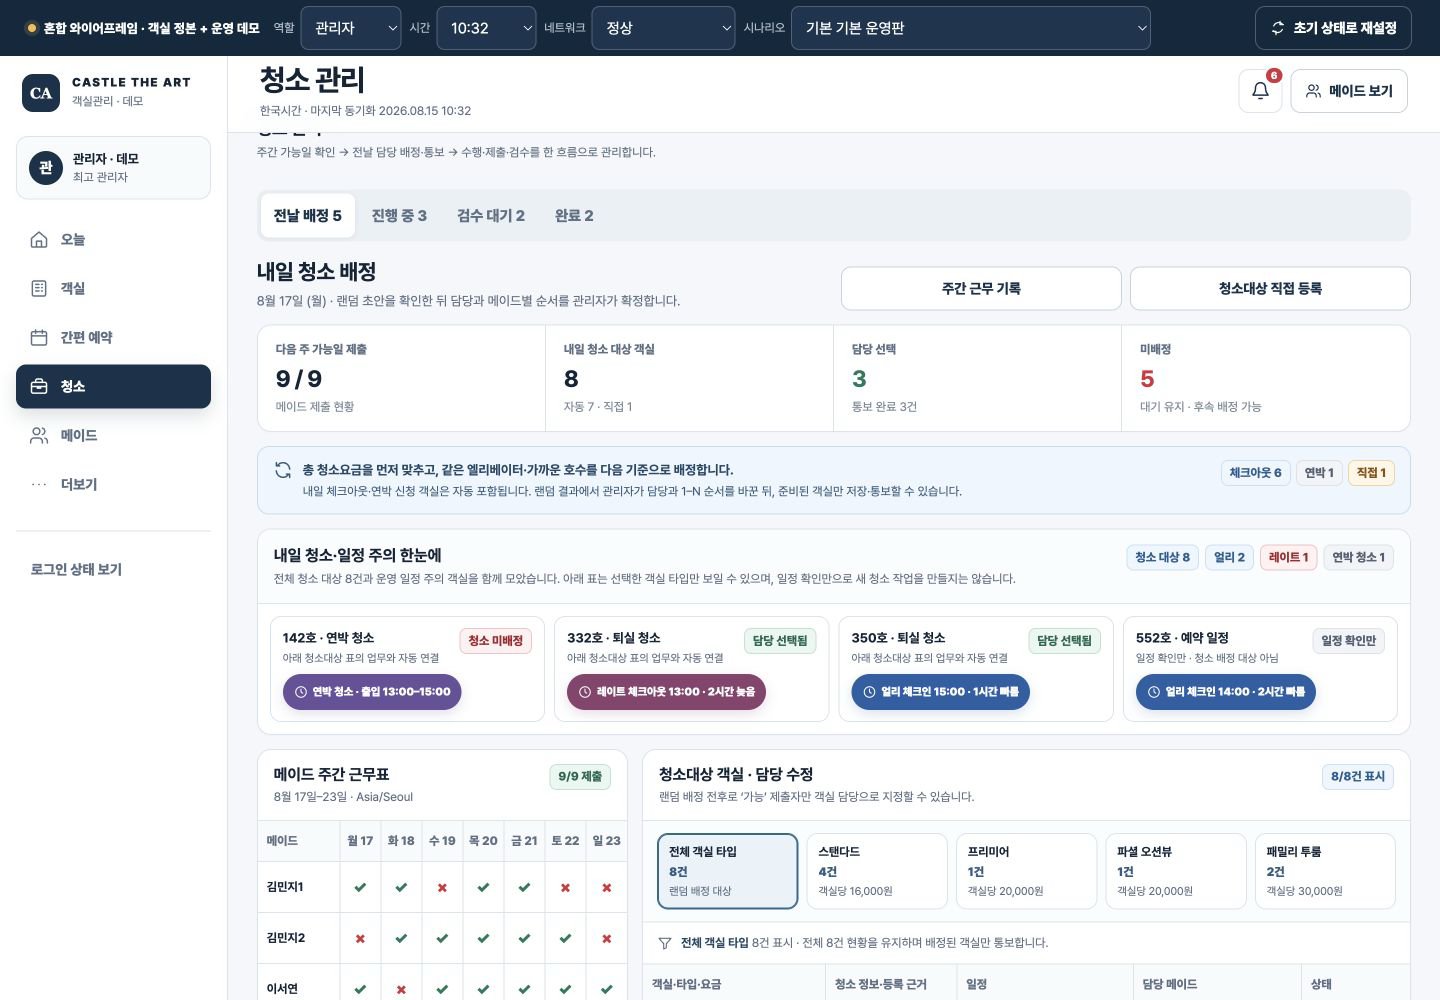
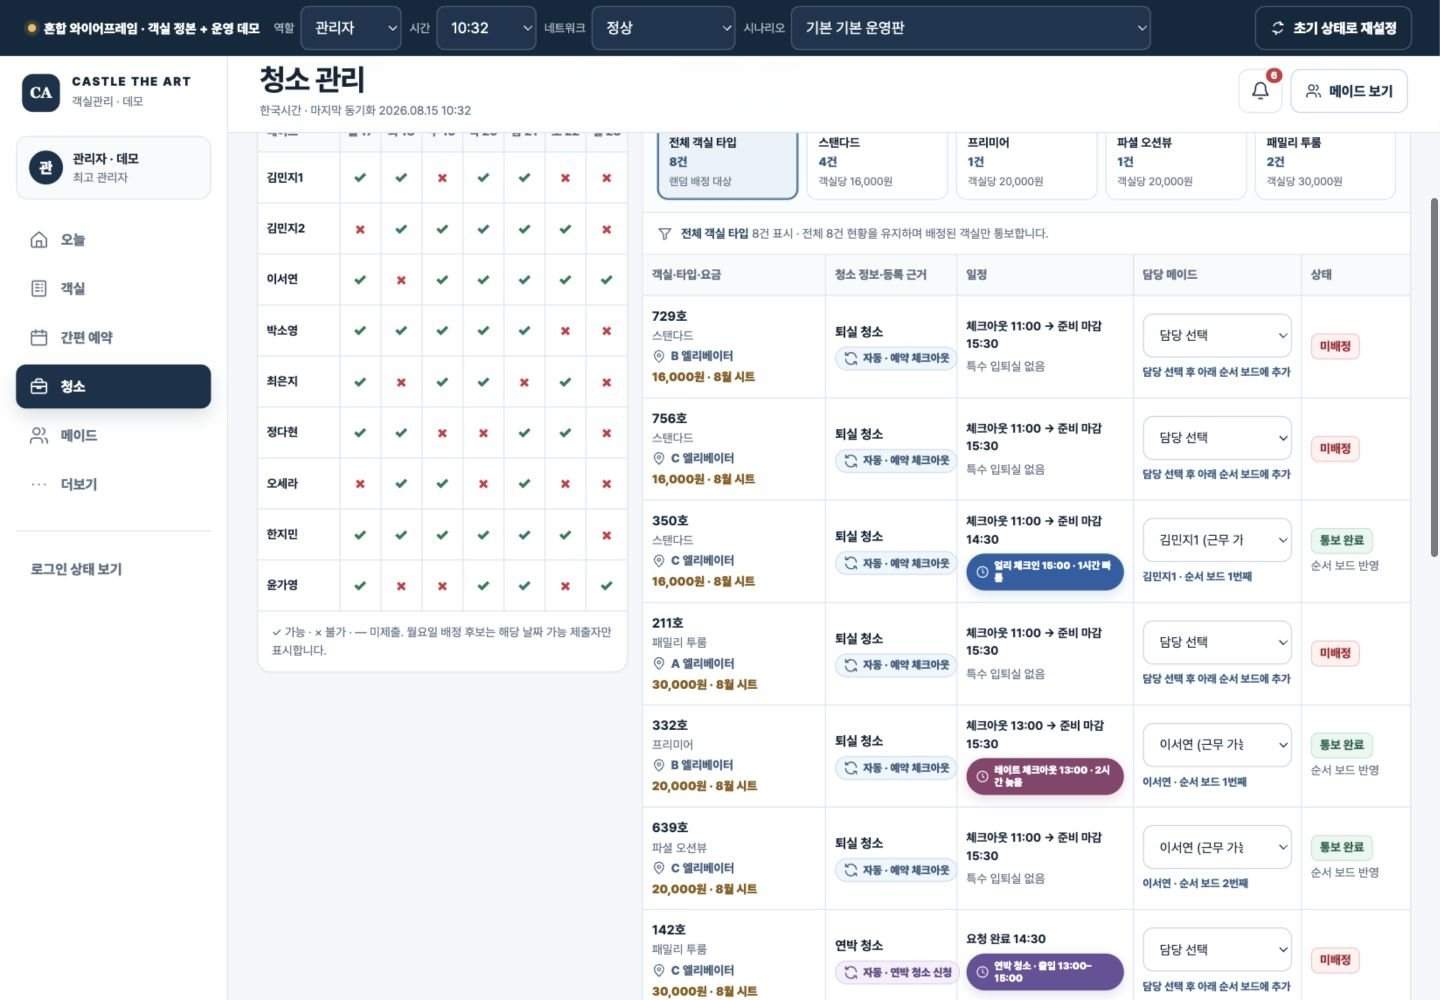
fix: 배정 주의 패널을 제거하라

diff --git a/WIREFRAME/index.html b/WIREFRAME/index.html
@@ -1167,20 +1167,6 @@
     .assignment-target-rule strong { display:block; color:#244966; font-size:13px; }
     .assignment-target-rule p { margin:3px 0 0; font-size:12px; line-height:1.5; }
     .assignment-target-rule .badge-row { flex:0 0 auto; justify-content:flex-end; }
-    .assignment-focus { overflow:hidden; }
-    .assignment-focus-head { display:flex; align-items:flex-start; gap:12px; padding:15px 16px; border-bottom:1px solid var(--line); background:#fbfcfe; }
-    .assignment-focus-head > div:first-child { min-width:0; flex:1; }
-    .assignment-focus-head h3 { margin:0 0 3px; font-size:1rem; }
-    .assignment-focus-head p { margin:0; color:var(--muted); font-size:12px; line-height:1.5; }
-    .assignment-focus-counts { display:flex; flex-wrap:wrap; justify-content:flex-end; gap:6px; }
-    .assignment-focus-list { display:grid; grid-template-columns:repeat(auto-fit,minmax(260px,1fr)); gap:9px; padding:12px; }
-    .assignment-focus-item { display:grid; grid-template-columns:minmax(0,1fr) auto; gap:8px 10px; align-items:start; min-width:0; padding:11px 12px; border:1px solid var(--line); border-radius:11px; background:#fff; }
-    .assignment-focus-copy { min-width:0; }
-    .assignment-focus-copy strong,.assignment-focus-copy span { display:block; }
-    .assignment-focus-copy strong { font-size:13px; }
-    .assignment-focus-copy span { margin-top:3px; color:var(--muted); font-size:11px; line-height:1.4; }
-    .assignment-focus-badges { grid-column:1/-1; display:flex; flex-wrap:wrap; gap:6px; }
-    .assignment-focus-empty { padding:14px 16px; color:var(--muted); font-size:12px; }
     .maid-order-panel { overflow:hidden; }
     .maid-order-board { display:grid; grid-template-columns:repeat(auto-fit,minmax(420px,1fr)); gap:12px; padding:14px; background:#f7f9fc; }
     .maid-order-lane { min-width:0; overflow:hidden; border:1px solid var(--line); border-radius:13px; background:#fff; }
@@ -1323,9 +1309,6 @@
       .assignment-history-row > :nth-child(n+3) { grid-column:2; }
       .assignment-target-rule { flex-direction:column; }
       .assignment-target-rule .badge-row { justify-content:flex-start; }
-      .assignment-focus-head { flex-direction:column; }
-      .assignment-focus-counts { justify-content:flex-start; }
-      .assignment-focus-list { grid-template-columns:1fr; padding:10px; }
       .assignment-random { gap:12px; padding:14px; }
       .assignment-random-stats > div { min-height:66px; padding:9px; }
       .assignment-random-stats strong { font-size:.95rem; }
@@ -3876,18 +3859,6 @@
         if(context.late)badges.push(`<span class="schedule-priority-badge late">${icon('clock','icon-sm')}레이트 체크아웃 ${esc(context.checkout)} · ${esc(context.lateOffset)} 늦음</span>`);
         return badges;
       }
-      function assignmentAttentionItems() {
-        const byRoom=new Map(),targets=assignmentTargets(),ensure=roomNo=>{if(!byRoom.has(roomNo))byRoom.set(roomNo,{room:roomNo,targets:[],early:[],late:[],stayover:[]});return byRoom.get(roomNo);};
-        const add=(items,value,targetId='')=>{const existing=items.find(item=>item.time===value.time&&item.offset===value.offset&&item.range===value.range);if(existing){if(targetId&&!existing.targetIds.includes(targetId))existing.targetIds.push(targetId);return;}items.push({...value,targetIds:targetId?[targetId]:[]});};
-        targets.forEach(item=>{const entry=ensure(item.room),context=assignmentContext(item);entry.targets.push(item);if(context.early)add(entry.early,{time:context.checkin,offset:context.earlyOffset},item.id);if(context.late)add(entry.late,{time:context.checkout,offset:context.lateOffset},item.id);if(item.source==='stayover')add(entry.stayover,{range:`${item.accessStart}–${item.accessEnd}`,time:item.requestDue||item.deadline||''},item.id);});
-        activeReservationsFor(state).forEach(reservation=>{const status=reservationTimeStatus(reservation.checkInAt,reservation.checkOutAt),earlyTarget=targets.find(target=>target.nextReservationId===reservation.id),lateTarget=targets.find(target=>target.reservationId===reservation.id);if(reservation.checkInAt.slice(0,10)===state.assignmentDate&&status.early)add(ensure(reservation.room).early,{time:status.checkin,offset:status.earlyOffset},earlyTarget?.id);if(reservation.checkOutAt.slice(0,10)===state.assignmentDate&&status.late)add(ensure(reservation.room).late,{time:status.checkout,offset:status.lateOffset},lateTarget?.id);});
-        return [...byRoom.values()].filter(item=>item.early.length||item.late.length||item.stayover.length).map(item=>{const schedules=[...item.early,...item.late,...item.stayover],linkedIds=new Set(schedules.flatMap(schedule=>schedule.targetIds)),linkedTargets=item.targets.filter(target=>linkedIds.has(target.id));return {...item,targets:linkedTargets,kinds:[...new Set(linkedTargets.map(target=>target.kind))],attentionOnly:linkedTargets.length===0,hasAttentionOnly:schedules.some(schedule=>schedule.targetIds.length===0)};}).sort((left,right)=>left.room.localeCompare(right.room,'ko',{numeric:true}));
-      }
-      function renderAssignmentAttention(items,totalTargets) {
-        const early=items.filter(item=>item.early.length).length,late=items.filter(item=>item.late.length).length,stayover=items.filter(item=>item.stayover.length).length;
-        const list=items.map(item=>{const unassigned=item.targets.some(target=>!assignmentFor(target).maidId),status=item.attentionOnly?['일정 확인만','neutral']:unassigned?['청소 미배정','red']:['담당 선택됨','green'],badges=[...item.early.map(value=>`<span class="schedule-priority-badge">${icon('clock','icon-sm')}얼리 체크인 ${esc(value.time)} · ${esc(value.offset)} 빠름</span>`),...item.late.map(value=>`<span class="schedule-priority-badge late">${icon('clock','icon-sm')}레이트 체크아웃 ${esc(value.time)} · ${esc(value.offset)} 늦음</span>`),...item.stayover.map(value=>`<span class="schedule-priority-badge stayover">${icon('clock','icon-sm')}연박 청소 · 출입 ${esc(value.range)}</span>`)].join(''),kind=item.kinds.length?item.kinds.join(' · '):'예약 일정',linkCopy=item.attentionOnly?'일정 확인만 · 청소 배정 대상 아님':item.hasAttentionOnly?'청소 업무 연결 · 별도 일정은 확인만':'아래 청소대상 표의 업무와 자동 연결';return `<article class="assignment-focus-item"><div class="assignment-focus-copy"><strong>${item.room}호 · ${esc(kind)}</strong><span>${linkCopy}</span></div>${statusBadge(status[0],status[1])}<div class="assignment-focus-badges">${badges}</div></article>`;}).join('');
-        return `<section class="card assignment-focus" aria-labelledby="assignment-focus-title"><div class="assignment-focus-head"><div><h3 id="assignment-focus-title">내일 청소·일정 주의 한눈에</h3><p>전체 청소 대상 ${totalTargets}건과 운영 일정 주의 객실을 함께 모았습니다. 아래 표는 선택한 객실 타입만 보일 수 있으며, 일정 확인만으로 새 청소 작업을 만들지는 않습니다.</p></div><div class="assignment-focus-counts">${statusBadge(`청소 대상 ${totalTargets}`,'blue')}${statusBadge(`얼리 ${early}`,'blue')}${statusBadge(`레이트 ${late}`,'red')}${statusBadge(`연박 청소 ${stayover}`,'neutral')}</div></div>${list?`<div class="assignment-focus-list">${list}</div>`:'<div class="assignment-focus-empty">특수 입퇴실 일정은 없습니다. 아래 표에서 내일 청소 대상만 배정하면 됩니다.</div>'}</section>`;
-      }
       function assignmentScheduleMarkup(item) {
         const special=assignmentSchedulePriorityBadges(item);
         const primary=item.source==='stayover'?`요청 완료 ${esc(item.requestDue||item.deadline||'—')}`:`체크아웃 ${esc(item.checkout||'—')} → 준비 마감 ${esc(item.deadline||'—')}`;
@@ -3906,11 +3877,11 @@
         return `<span class="assignment-source ${cls}">${icon(item.source==='manual'?'user':'sync','icon-sm')}${item.source==='manual'?'직접 등록':`자동 · ${esc(label)}`}</span>`;
       }
       function renderAssignmentDashboard() {
-        const counts=assignmentCounts(),targets=assignmentTargets(),visibleTargets=filteredAssignmentTargets(),attentionItems=assignmentAttentionItems(),activeType=state.assignmentTypeFilter==='all'?null:ROOM_TYPES[state.assignmentTypeFilter];
+        const counts=assignmentCounts(),targets=assignmentTargets(),visibleTargets=filteredAssignmentTargets(),activeType=state.assignmentTypeFilter==='all'?null:ROOM_TYPES[state.assignmentTypeFilter];
         const rows=visibleTargets.map(item=>{const assignment=assignmentFor(item),context=assignmentContext(item),status=assignment.status==='notified'?'통보 완료':assignment.maidId?'저장 전':'미배정',tone=assignment.status==='notified'?'green':assignment.maidId?'amber':'red';return `<tr><td data-label="객실·타입·요금"><div class="assignment-cell-stack"><strong>${item.room}호</strong><span class="assignment-room-type">${esc(context.type.name)}</span><span class="assignment-elevator">${icon('mapPin','icon-sm')}${esc(elevatorLabel(context.room))}</span><span class="assignment-fee">${money(context.type.rate)} · 8월 시트</span></div></td><td data-label="청소 정보"><div class="assignment-cell-stack"><strong>${esc(item.kind)}</strong>${assignmentSourceMarkup(item)}</div></td><td data-label="일정">${assignmentScheduleMarkup(item)}</td><td data-label="담당 메이드"><div class="assignment-assignee"><select class="select-control" data-control="assignment-maid" data-location="table" data-target="${esc(item.id)}" aria-label="${item.room}호 ${esc(item.kind)} 담당 메이드 · 근무 가능 제출자만 표시">${assignmentOptions(item)}</select>${assignmentRouteReference(item)}</div></td><td data-label="상태">${statusBadge(status,tone)}${assignment.maidId?'<span class="cell-sub">순서 보드 반영</span>':''}</td></tr>`;}).join('');
         const history=state.assignmentHistory.map(entry=>`<div class="assignment-history-row"><strong>${esc(entry.time)}</strong><span>${esc(entry.room)}호</span><span>${esc(entry.before)} → ${esc(entry.after)}</span><span>${esc(entry.reason)}</span></div>`).join('');
         const emptyRows=`<tr><td colspan="5"><div class="inline-empty"><h3>이 타입의 청소대상이 없습니다</h3><p>다른 타입을 선택하거나 전체 객실을 확인하세요.</p></div></td></tr>`;
-        return `<div class="assignment-page"><div class="assignment-intro"><div><h2>내일 청소 배정</h2><p>${dateLabel(state.assignmentDate)} · 랜덤 초안을 확인한 뒤 담당과 메이드별 순서를 관리자가 확정합니다.</p></div><div class="job-actions">${button('주간 근무 기록','go-work-history','outline')}${button('청소대상 직접 등록','new-cleaning','outline')}</div></div><section class="card assignment-summary"><div><span>다음 주 가능일 제출</span><strong>${counts.submitted} / ${MAIDS.length}</strong><small>메이드 제출 현황</small></div><div><span>내일 청소 대상 객실</span><strong>${counts.total}</strong><small>자동 ${counts.automatic} · 직접 ${counts.manual}</small></div><div class="summary-good"><span>담당 선택</span><strong>${counts.assigned}</strong><small>통보 완료 ${counts.notified}건</small></div><div class="summary-warn"><span>미배정</span><strong>${counts.unassigned}</strong><small>대기 유지 · 후속 배정 가능</small></div></section><section class="assignment-target-rule" aria-label="청소대상 자동 구성과 랜덤 배정 기준">${icon('sync')}<div><strong>총 청소요금을 먼저 맞추고, 같은 엘리베이터·가까운 호수를 다음 기준으로 배정합니다.</strong><p>내일 체크아웃·연박 신청 객실은 자동 포함됩니다. 랜덤 결과에서 관리자가 담당과 1–N 순서를 바꾼 뒤, 준비된 객실만 저장·통보할 수 있습니다.</p></div><div class="badge-row">${statusBadge(`체크아웃 ${counts.checkout}`,'blue')}${statusBadge(`연박 ${counts.stayover}`,'neutral')}${statusBadge(`직접 ${counts.manual}`,'amber')}</div></section>${renderAssignmentAttention(attentionItems,counts.total)}<div class="assignment-grid"><section class="card assignment-panel"><div class="assignment-panel-head"><div><h3>메이드 주간 근무표</h3><p>8월 17일–23일 · Asia/Seoul</p></div>${statusBadge(`${counts.submitted}/${MAIDS.length} 제출`,counts.submitted===MAIDS.length?'green':'amber')}</div>${renderAvailabilityMatrix()}</section><section class="card assignment-panel"><div class="assignment-panel-head"><div><h3>청소대상 객실 · 담당 수정</h3><p>랜덤 배정 전후로 ‘가능’ 제출자만 객실 담당으로 지정할 수 있습니다.</p></div>${statusBadge(`${visibleTargets.length}/${targets.length}건 표시`,'blue')}</div>${assignmentTypeFiltersMarkup()}<div class="assignment-filter-context">${icon('filter','icon-sm')}<span><strong>${activeType?esc(activeType.name):'전체 객실 타입'}</strong> ${visibleTargets.length}건 표시 · 전체 ${targets.length}건 현황을 유지하며 배정된 객실만 통보합니다.</span></div><div class="assignment-table-wrap"><table class="assignment-table"><thead><tr><th scope="col">객실·타입·요금</th><th scope="col">청소 정보·등록 근거</th><th scope="col">일정</th><th scope="col">담당 메이드</th><th scope="col">상태</th></tr></thead><tbody>${rows||emptyRows}</tbody></table></div><div class="assignment-foot"><p>담당을 바꾸면 해당 객실이 새 메이드 순서의 마지막으로 이동합니다. 불가·미제출 메이드는 표시하지 않습니다.</p></div></section></div>${renderMaidOrderBoard()}<section class="card assignment-history"><div class="assignment-panel-head"><div><h3>배정·순서 통보 이력</h3><p>담당과 청소 순서의 이전 값을 덮어쓰지 않고 변경 이력을 추가합니다.</p></div>${statusBadge('관리자 전용','neutral')}</div><div class="assignment-history-list">${history}</div></section></div>`;
+        return `<div class="assignment-page"><div class="assignment-intro"><div><h2>내일 청소 배정</h2><p>${dateLabel(state.assignmentDate)} · 랜덤 초안을 확인한 뒤 담당과 메이드별 순서를 관리자가 확정합니다.</p></div><div class="job-actions">${button('주간 근무 기록','go-work-history','outline')}${button('청소대상 직접 등록','new-cleaning','outline')}</div></div><section class="card assignment-summary"><div><span>다음 주 가능일 제출</span><strong>${counts.submitted} / ${MAIDS.length}</strong><small>메이드 제출 현황</small></div><div><span>내일 청소 대상 객실</span><strong>${counts.total}</strong><small>자동 ${counts.automatic} · 직접 ${counts.manual}</small></div><div class="summary-good"><span>담당 선택</span><strong>${counts.assigned}</strong><small>통보 완료 ${counts.notified}건</small></div><div class="summary-warn"><span>미배정</span><strong>${counts.unassigned}</strong><small>대기 유지 · 후속 배정 가능</small></div></section><section class="assignment-target-rule" aria-label="청소대상 자동 구성과 랜덤 배정 기준">${icon('sync')}<div><strong>총 청소요금을 먼저 맞추고, 같은 엘리베이터·가까운 호수를 다음 기준으로 배정합니다.</strong><p>내일 체크아웃·연박 신청 객실은 자동 포함됩니다. 랜덤 결과에서 관리자가 담당과 1–N 순서를 바꾼 뒤, 준비된 객실만 저장·통보할 수 있습니다.</p></div><div class="badge-row">${statusBadge(`체크아웃 ${counts.checkout}`,'blue')}${statusBadge(`연박 ${counts.stayover}`,'neutral')}${statusBadge(`직접 ${counts.manual}`,'amber')}</div></section><div class="assignment-grid"><section class="card assignment-panel"><div class="assignment-panel-head"><div><h3>메이드 주간 근무표</h3><p>8월 17일–23일 · Asia/Seoul</p></div>${statusBadge(`${counts.submitted}/${MAIDS.length} 제출`,counts.submitted===MAIDS.length?'green':'amber')}</div>${renderAvailabilityMatrix()}</section><section class="card assignment-panel"><div class="assignment-panel-head"><div><h3>청소대상 객실 · 담당 수정</h3><p>얼리·레이트·연박 청소 일정은 해당 객실 행에서 함께 확인합니다.</p></div>${statusBadge(`${visibleTargets.length}/${targets.length}건 표시`,'blue')}</div>${assignmentTypeFiltersMarkup()}<div class="assignment-filter-context">${icon('filter','icon-sm')}<span><strong>${activeType?esc(activeType.name):'전체 객실 타입'}</strong> ${visibleTargets.length}건 표시 · 전체 ${targets.length}건 현황을 유지하며 배정된 객실만 통보합니다.</span></div><div class="assignment-table-wrap"><table class="assignment-table"><thead><tr><th scope="col">객실·타입·요금</th><th scope="col">청소 정보·등록 근거</th><th scope="col">일정</th><th scope="col">담당 메이드</th><th scope="col">상태</th></tr></thead><tbody>${rows||emptyRows}</tbody></table></div><div class="assignment-foot"><p>담당을 바꾸면 해당 객실이 새 메이드 순서의 마지막으로 이동합니다. 불가·미제출 메이드는 표시하지 않습니다.</p></div></section></div>${renderMaidOrderBoard()}<section class="card assignment-history"><div class="assignment-panel-head"><div><h3>배정·순서 통보 이력</h3><p>담당과 청소 순서의 이전 값을 덮어쓰지 않고 변경 이력을 추가합니다.</p></div>${statusBadge('관리자 전용','neutral')}</div><div class="assignment-history-list">${history}</div></section></div>`;
       }
       function cleaningTabButton(id,label,count) { return `<button type="button" role="tab" data-action="cleaning-tab" data-tab="${id}" aria-selected="${state.cleaningTab===id}">${label} ${count}</button>`; }
       function renderCleaningHub() {

diff --git a/WIREFRAME/QA.md b/WIREFRAME/QA.md
@@ -8,7 +8,7 @@
 - 관련 이슈: GitHub issue #2, #4, #6, #8, #10, #12, #14, #16, #18, #20
 - 실행: `python3 scripts/serve.py` → `http://127.0.0.1:4173/index.html`
 - 상호작용 브라우저: Codex 인앱 브라우저, Google Chrome 151 headless + Playwright
-- 스크린샷: 기존 배정·예약·객실 특이사항 PNG에 더해 인앱 브라우저의 1440×720·390×844 객실 정보 수정, 390×844 수동 체크아웃, 1440×1000·390×844 랜덤 배정 결과, 관리자 대시보드 청소비 예상 지출, 메이드 구역별 체크·즉시 카메라 결과, 관리자 간편 예약·예약 취소 문구 정리 화면, 객실 카드 4상태·연박 진행·전날 배정 일정 주의 화면을 저장했다. 이번 반응형 행렬은 인앱 브라우저 뷰포트 기능으로 확인했고, 이전 객실 특이사항 파일 선택과 청소비 카드의 Enter·Space 활성화는 같은 로컬 URL의 Chrome + Playwright로 검증했다.
+- 스크린샷: 기존 배정·예약·객실 특이사항 PNG에 더해 인앱 브라우저의 1440×720·390×844 객실 정보 수정, 390×844 수동 체크아웃, 1440×1000·390×844 랜덤 배정 결과, 관리자 대시보드 청소비 예상 지출, 메이드 구역별 체크·즉시 카메라 결과, 관리자 간편 예약·예약 취소 문구 정리 화면, 객실 카드 4상태·연박 진행·전날 배정 행 일정 배지 화면을 저장했다. 이번 반응형 행렬은 인앱 브라우저 뷰포트 기능으로 확인했고, 이전 객실 특이사항 파일 선택과 청소비 카드의 Enter·Space 활성화는 같은 로컬 URL의 Chrome + Playwright로 검증했다.
 
 > 8월 객실 마스터 반영 전의 회귀 기록과 PNG에 쓰인 데모 객실번호는 당시 fixture 식별자다. 현재 동일 시나리오는 `1208→117`, `201→350`, `202→332`, `203→528`, `301→536`, `302→639`, `401→142`, `402→211`, `412→352`로 실제 8월 객실에 매핑했다. 아래 기존 기록은 당시 실제 확인 근거로 보존하고, 현재 객실 마스터·위치 표시는 다음 절에서 별도로 재검증했다.
 
@@ -444,8 +444,8 @@
 | 청소 단계 서브 배지 | 통과 | 주황 주 상태는 `청소 필요`로 고정하고 350호 `검수 대기`, 332호 `청소 중`, 528호 `현장 완료 · 업로드 대기`를 작은 `청소 단계` 서브 배지로 내렸다. 예약이 없는 528호에는 얼리 체크인 배지가 나타나지 않았다. |
 | 얼리·레이트 강조 | 통과 | 350호 `얼리 체크인 15:00 · 1시간 빠름`, 332호 `레이트 체크아웃 13:00 · 2시간 늦음`, 552호 `얼리 체크인 14:00 · 2시간 빠름`을 청소 단계보다 강한 색의 일정 배지로 표시했다. 기본 16:00·11:00에는 특수 일정 배지가 없었다. |
 | 연박 진행 배지 | 통과 | 142호의 유효한 4박 예약에서 8월 15일 `연박 2/4일차`, 16일 `3/4일차`, 17일 `4/4일차`를 표시했다. 8월 14일 10:32 체크인 전에는 숨기고 16:05 이후 `1/4일차`, 8월 18일 10:32에는 `4/4일차`, 11:05 체크아웃 뒤에는 숨겼다. 주 상태·필터·집계는 별도로 만들지 않았고, 전날 배정의 `연박 청소` 집계와 혼용하지 않았다. |
-| 청소·일정 자동 집계 | 통과 | 전날 배정의 실제 청소 대상은 8건으로 유지하면서 142호 연박 청소 업무, 332호 레이트, 350호 얼리를 해당 업무와 연결했다. 청소가 없는 552호 얼리는 `일정 확인만 · 청소 배정 대상 아님`으로 분리했고 랜덤 배정·저장·통보 대상 수를 늘리지 않았다. |
-| 타입 필터와 전체 주의 | 통과 | 스탠다드 필터에서 표는 4/8건만 보여도 상단 주의 영역은 전체 4객실과 `청소 대상 8 / 얼리 2 / 레이트 1 / 연박 청소 1`을 유지하고, 선택 타입만 표에 보일 수 있음을 명시했다. |
+| 청소 행 일정 자동 표시 | 통과 | 전날 배정의 실제 청소 대상 8건은 그대로 유지하면서 142호 연박 청소, 332호 레이트, 350호 얼리 일정을 각각 해당 청소 행 안에 강조 배지로 표시했다. 청소 작업이 없는 552호 일정은 배정 표나 랜덤 배정·저장·통보 대상에 추가하지 않았다. |
+| 배정 화면 밀도 | 통과 | 객실이 많아질 때 중복 목록이 생기지 않도록 별도 주의 패널 없이 기존 청소대상 표만 유지했다. 스탠다드 필터에서는 4/8건만 표시해도 전체 대상·담당·미배정 상태는 보존됐다. |
 | 모달·키보드·뒤로가기 | 통과 | 내보내기 모달은 닫기 버튼에 초기 포커스를 두고 `Escape`로 닫은 뒤 `내보내기` 버튼에 포커스를 복원했다. 639호 상세에서 브라우저 뒤로가기를 실행하자 `배정 불가` 필터와 3개 카드가 복원됐다. |
 | 360·390·768·1440px | 통과 | 객실 카드와 배정 주의 영역 모두 네 너비에서 문서 가로 넘침 0px, 보이는 주 컨트롤 최소 높이 44px였다. 360/390px는 한 열, 768px 이상은 가용 폭에 맞춰 확장됐다. |
 | 접근성·콘솔·구문 | 통과 | 접근성 이름 없는 활성 버튼·select 0개, 브라우저 warning/error 0건, 단일 인라인 스크립트 `new Function` 구문 분석과 `git diff --check`를 통과했다. |
